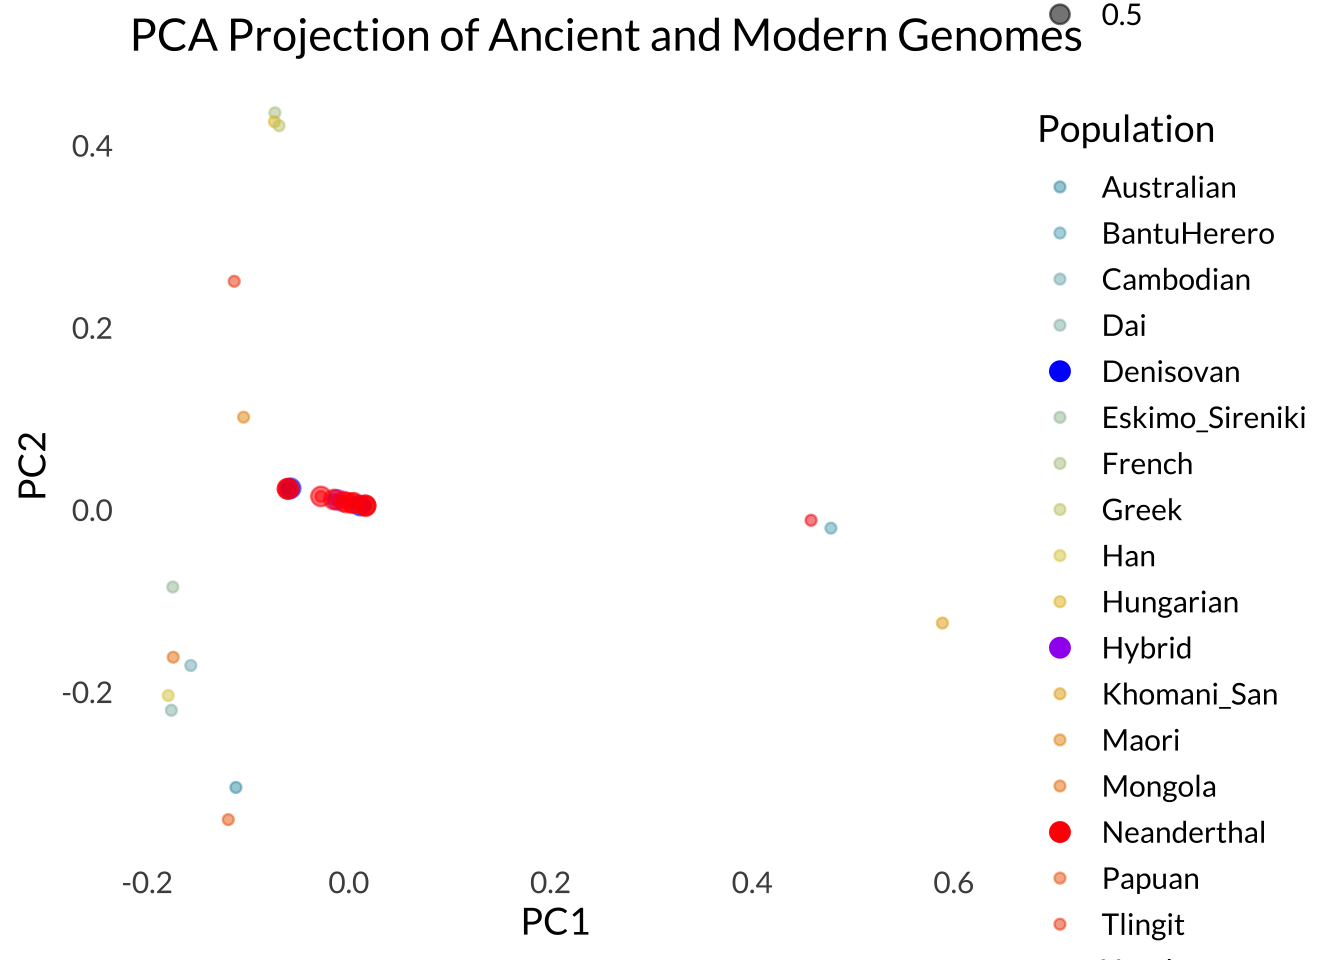
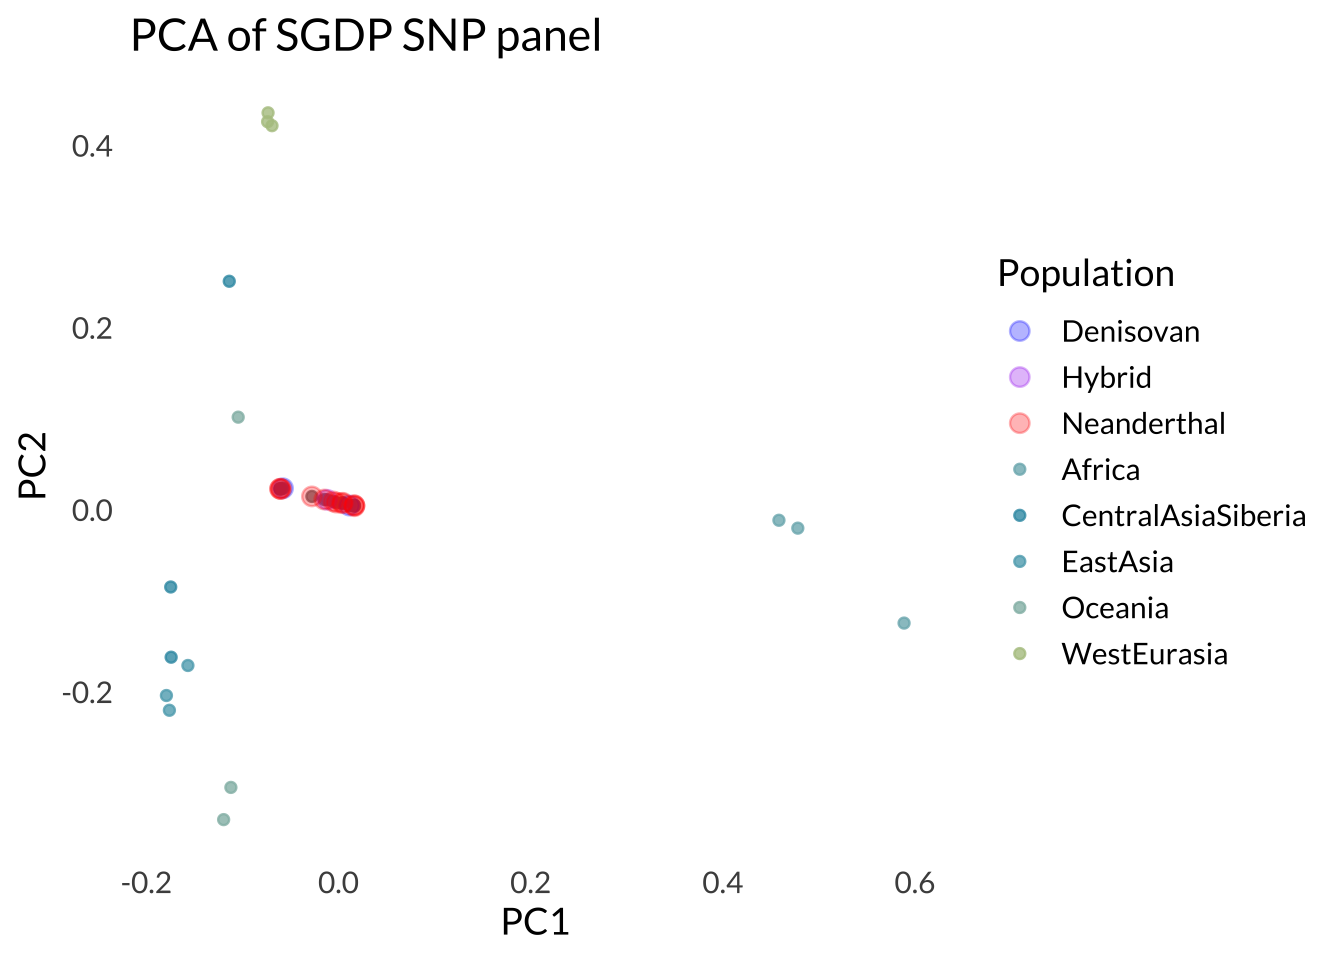
Update pca

diff --git a/docs/pca.html b/docs/pca.html
@@ -374,7 +374,7 @@ div.tocify {
 <p>
 <button type="button" class="btn btn-default btn-workflowr btn-workflowr-report" data-toggle="collapse" data-target="#workflowr-report">
 <span class="glyphicon glyphicon-list" aria-hidden="true"></span>
-workflowr <span class="glyphicon glyphicon-ok text-success"
+workflowr <span class="glyphicon glyphicon-exclamation-sign text-danger"
 aria-hidden="true"></span>
 </button>
 </p>
@@ -385,8 +385,8 @@ aria-hidden="true"></span>
 </li>
 <li>
 <a data-toggle="tab" href="#checks"> Checks <span
-class="glyphicon glyphicon-ok text-success" aria-hidden="true"></span>
-</a>
+class="glyphicon glyphicon-exclamation-sign text-danger"
+aria-hidden="true"></span> </a>
 </li>
 <li>
 <a data-toggle="tab" href="#versions">Past versions</a>
@@ -399,9 +399,9 @@ class="glyphicon glyphicon-ok text-success" aria-hidden="true"></span>
 </p>
 <p>
 <strong>Checks:</strong> <span
-class="glyphicon glyphicon-ok text-success" aria-hidden="true"></span> 7
+class="glyphicon glyphicon-ok text-success" aria-hidden="true"></span> 6
 <span class="glyphicon glyphicon-exclamation-sign text-danger"
-aria-hidden="true"></span> 0
+aria-hidden="true"></span> 1
 </p>
 <p>
 <strong>Knit directory:</strong> <code>~/Documents/GitHub/PAINT/</code>
@@ -424,18 +424,21 @@ versions</em> tab lists the development history.
 <div class="panel panel-default">
 <div class="panel-heading">
 <p class="panel-title">
-<a data-toggle="collapse" data-parent="#workflowr-checks" href="#strongRMarkdownfilestronguptodate">
-<span class="glyphicon glyphicon-ok text-success"
-aria-hidden="true"></span> <strong>R Markdown file:</strong> up-to-date
-</a>
+<a data-toggle="collapse" data-parent="#workflowr-checks" href="#strongRMarkdownfilestronguncommittedchanges">
+<span class="glyphicon glyphicon-exclamation-sign text-danger"
+aria-hidden="true"></span> <strong>R Markdown file:</strong> uncommitted
+changes </a>
 </p>
 </div>
-<div id="strongRMarkdownfilestronguptodate"
+<div id="strongRMarkdownfilestronguncommittedchanges"
 class="panel-collapse collapse">
 <div class="panel-body">
-<p>Great! Since the R Markdown file has been committed to the Git
-repository, you know the exact version of the code that produced these
-results.</p>
+<p>The R Markdown file has unstaged changes. To know which version of
+the R Markdown file created these results, you’ll want to first commit
+it to the Git repo. If you’re still working on the analysis, you can
+ignore this warning. When you’re finished, you can run
+<code>wflow_publish</code> to commit the R Markdown file and build the
+HTML.</p>
 </div>
 </div>
 </div>
@@ -526,15 +529,15 @@ project makes it easier to run your code on other machines.</p>
 <div class="panel panel-default">
 <div class="panel-heading">
 <p class="panel-title">
-<a data-toggle="collapse" data-parent="#workflowr-checks" href="#strongRepositoryversionstrongahrefhttpsgithubcomlilyhealdPAINTtree36c80e1de3c6f77a30bb89496018e34ce825d120targetblank36c80e1a">
+<a data-toggle="collapse" data-parent="#workflowr-checks" href="#strongRepositoryversionstrongahrefhttpsgithubcomlilyhealdPAINTtree35015c544179226478a3d918b9774dd4a7b135b8targetblank35015c5a">
 <span class="glyphicon glyphicon-ok text-success"
 aria-hidden="true"></span> <strong>Repository version:</strong>
-<a href="https://github.com/lilyheald/PAINT/tree/36c80e1de3c6f77a30bb89496018e34ce825d120" target="_blank">36c80e1</a>
+<a href="https://github.com/lilyheald/PAINT/tree/35015c544179226478a3d918b9774dd4a7b135b8" target="_blank">35015c5</a>
 </a>
 </p>
 </div>
 <div
[2 lines of base64/hex data omitted]
 class="panel-collapse collapse">
 <div class="panel-body">
 <p>
@@ -544,7 +547,7 @@ reproducibility.
 </p>
 <p>
 The results in this page were generated with repository version
-<a href="https://github.com/lilyheald/PAINT/tree/36c80e1de3c6f77a30bb89496018e34ce825d120" target="_blank">36c80e1</a>.
+<a href="https://github.com/lilyheald/PAINT/tree/35015c544179226478a3d918b9774dd4a7b135b8" target="_blank">35015c5</a>.
 See the <em>Past versions</em> tab to see a history of the changes made
 to the R Markdown and HTML files.
 </p>
@@ -579,6 +582,9 @@ Ignored files:
     Ignored:    plink2.log
     Ignored:    plink2.zip
     Ignored:    test.log
+
+Unstaged changes:
+    Modified:   analysis/pca.Rmd
 
 </code></pre>
 <p>
@@ -622,6 +628,40 @@ Message
 </tr>
 </thead>
 <tbody>
+<tr>
+<td>
+Rmd
+</td>
+<td>
+<a href="https://github.com/lilyheald/PAINT/blob/35015c544179226478a3d918b9774dd4a7b135b8/analysis/pca.Rmd" target="_blank">35015c5</a>
+</td>
+<td>
+Lily Heald
+</td>
+<td>
+2026-04-13
+</td>
+<td>
+Update pca.Rmd
+</td>
+</tr>
+<tr>
+<td>
+html
+</td>
+<td>
+<a href="https://rawcdn.githack.com/lilyheald/PAINT/862b87ef5afe972c26c3adc66583dca2f7db69ef/docs/pca.html" target="_blank">862b87e</a>
+</td>
+<td>
+Lily Heald
+</td>
+<td>
+2026-04-13
+</td>
+<td>
+Build site.
+</td>
+</tr>
 <tr>
 <td>
 Rmd
@@ -925,11 +965,16 @@ ancient_clean &lt;- ancient_pcs %&gt;%
 
 df &lt;- bind_rows(modern_clean, ancient_clean)</code></pre>
 <pre class="r"><code>wes_cols &lt;- wes_palette(&quot;Zissou1&quot;, 15, type = &quot;continuous&quot;)
-modern_pops &lt;- sort(unique(df$Population[df$Type == &quot;Modern&quot;]))
+
+modern_pops &lt;- df$Region[df$Type == &quot;Modern&quot;]
 modern_colors &lt;- setNames(
   wes_cols[1:length(modern_pops)],
   modern_pops
 )
+
+df &lt;- df %&gt;%
+  arrange(Type, Region, Group) %&gt;%
+  mutate(Group = factor(Group, levels = unique(Group)))
 
 ancient_colors &lt;- c(
   &quot;Neanderthal&quot; = &quot;red&quot;,  
@@ -941,19 +986,20 @@ all_colors &lt;- c(modern_colors, ancient_colors)
 
 ggplot(df, aes(PC1, PC2)) +
   geom_point(
-    aes(color = Group),
+    aes(color = Region),
     size = 1.5,
-    alpha = 0.5
+    alpha = 0.8
   ) +
   geom_point(
     data = df %&gt;% filter(Type == &quot;Ancient&quot;),
-    aes(color = Group, alpha = 0.5),
-    size = 3
+    aes(color = Group),
+    size = 3,
+    alpha = 0.3
   ) +
   scale_color_manual(values = all_colors) +
   theme_minimal(base_family = &quot;lato&quot;, base_size = 14) +
   labs(
-    title = &quot;PCA Projection of Ancient and Modern Genomes&quot;,
+    title = &quot;PCA of SGDP SNP panel&quot;,
     x = &quot;PC1&quot;,
     y = &quot;PC2&quot;,
     color = &quot;Population&quot;
@@ -987,6 +1033,17 @@ Date
 <tbody>
 <tr>
 <td>
+<a href="https://github.com/lilyheald/PAINT/blob/862b87ef5afe972c26c3adc66583dca2f7db69ef/docs/figure/pca.Rmd/plot-1.png" target="_blank">862b87e</a>
+</td>
+<td>
+Lily Heald
+</td>
+<td>
+2026-04-13
+</td>
+</tr>
+<tr>
+<td>
 <a href="https://github.com/lilyheald/PAINT/blob/9e0b1138e9f892eca21d02b0e6691e0172fe7436/docs/figure/pca.Rmd/plot-1.png" target="_blank">9e0b113</a>
 </td>
 <td>
@@ -1011,9 +1068,6 @@ Lily Heald
 </table>
 </div>
 </div>
-</div>
-<div id="pigmentation-snp-panel" class="section level1">
-<h1>Pigmentation SNP panel</h1>
 <br>
 <p>
 <button type="button" class="btn btn-default btn-workflowr btn-workflowr-sessioninfo" data-toggle="collapse" data-target="#workflowr-sessioninfo" style="display: block;">
